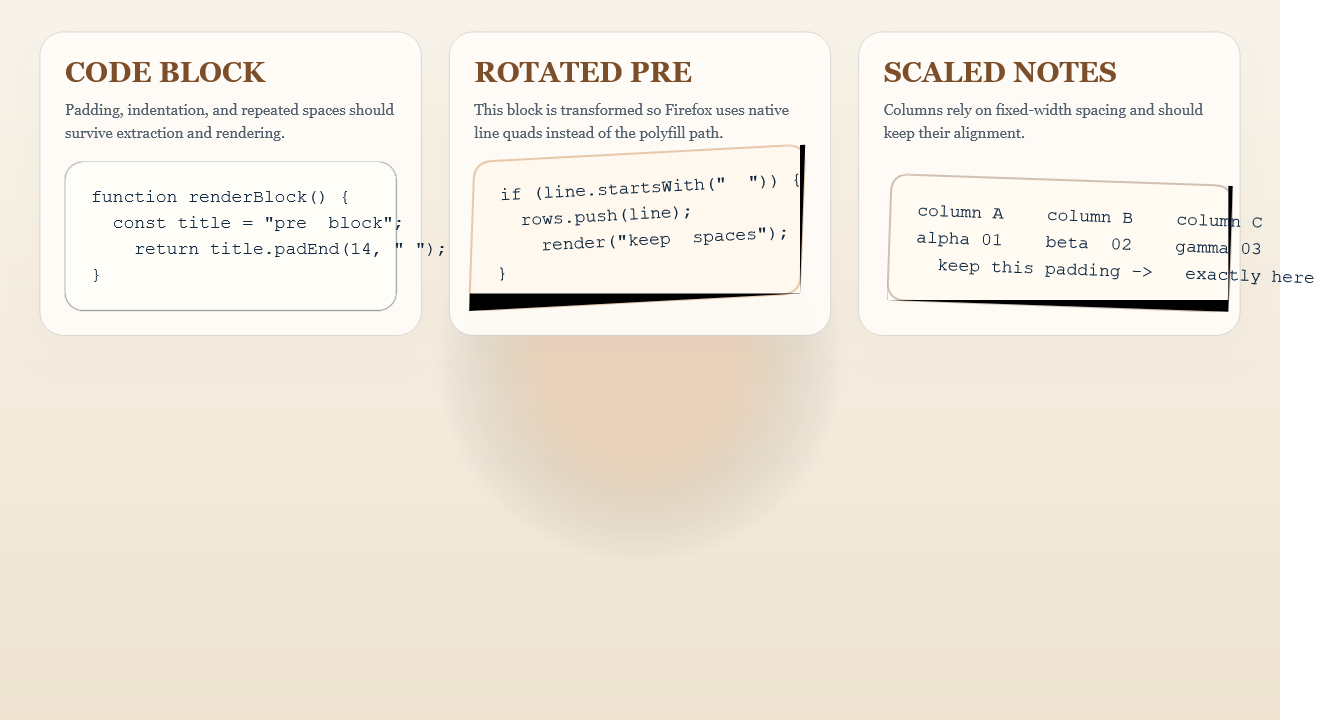
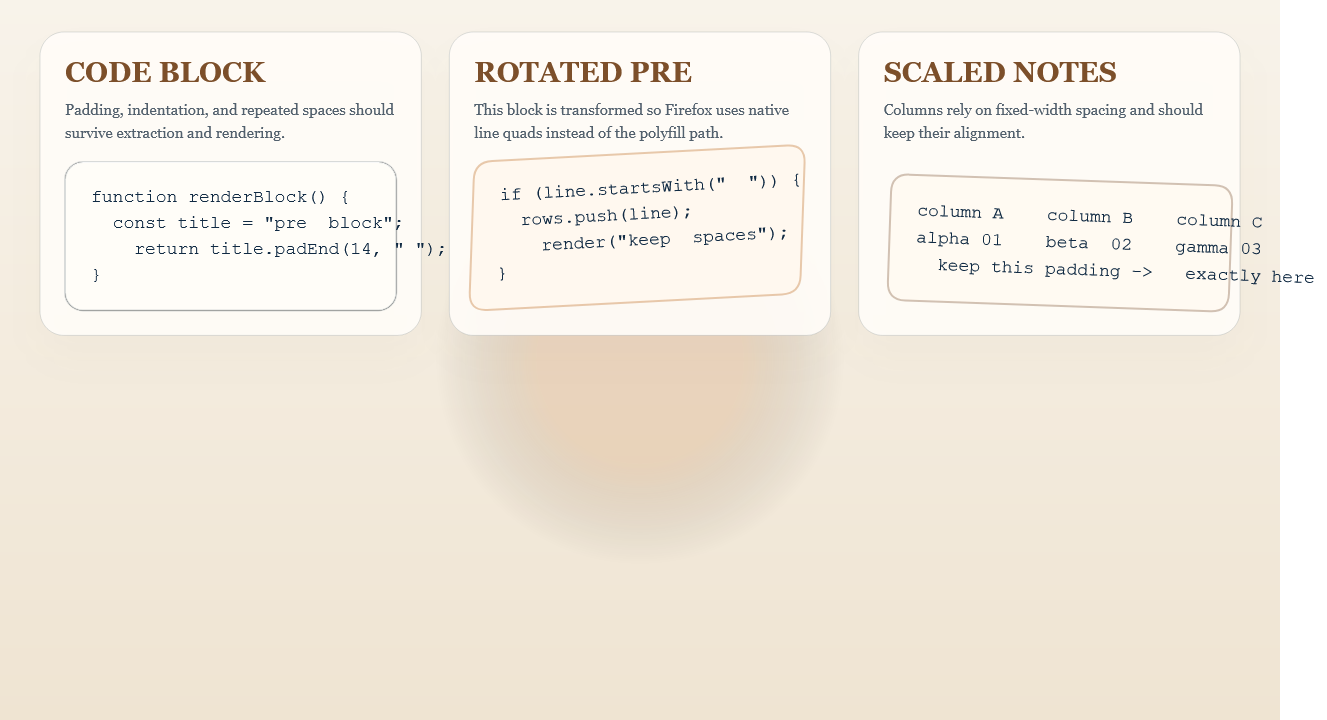
fix png outputmon rotated pre

Changed region(s): [[0.7106, 0.3972, 0.9269, 0.4583], [0.3399, 0.3972, 0.587, 0.4278], [0.587, 0.2139, 0.6179, 0.2444]]

diff --git a/src/image-writer.ts b/src/image-writer.ts
@@ -960,6 +960,11 @@ export class ImageWriter implements Writer<ImageResult> {
       // Skip shadows that don't match the requested phase
       if (shadow.inset !== insetOnly) continue;
       if (shadow.inset) {
+        // The inset-shadow emulation below relies on an axis-aligned inner cutout.
+        // Transformed quads leak the temporary black stencil into the clipped area,
+        // so skip inset shadows for those shapes instead of rendering artifacts.
+        if (!isAARect) continue;
+
         // Inset shadow: draw inside the shape using clipping
         ctx.save();
         // Clip to the shape